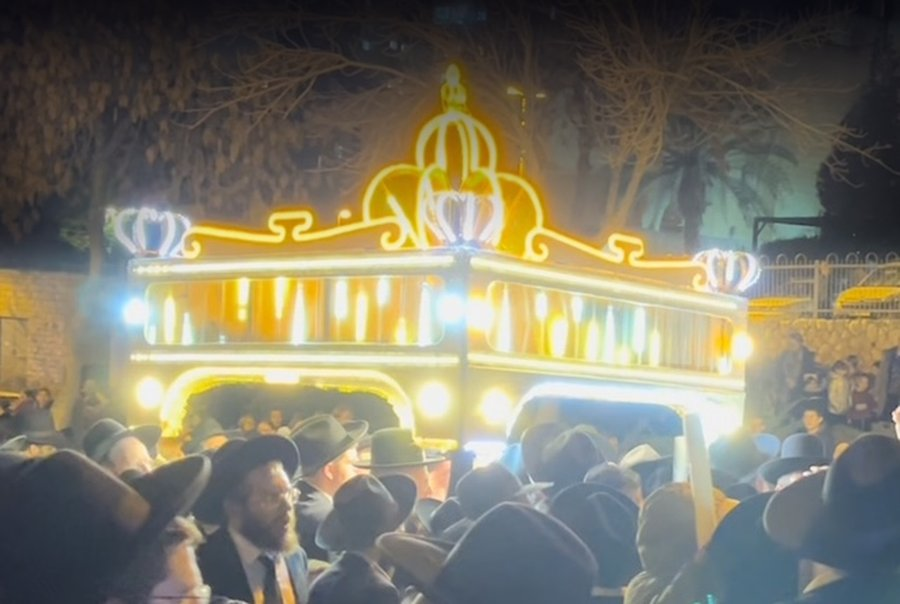
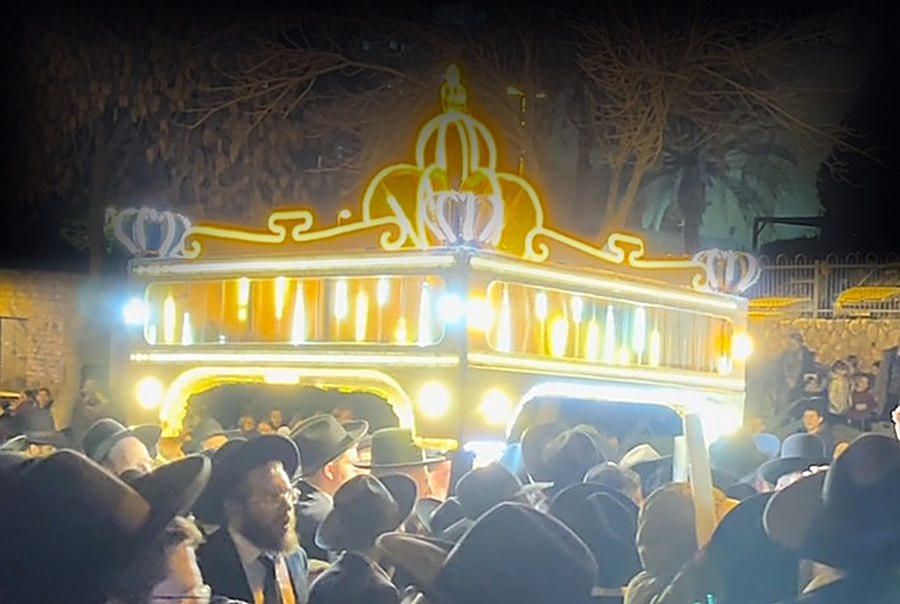
Smooth face blur, sharper chuppah photos, 3rd gallery photo, email copy
- Re-rendered the chuppah photos with a sharpening pass (to offset the
  softness from upscaling a small source photo) and a much stronger,
  near-black treatment on the tree corners so the gold crown pops.
- Replaced the hard-edged blur boxes with a feathered/soft blur so
  faces are obscured without a visible rectangle.
- Re-added showcase-crown.jpg as a third, distinct gallery photo
  (grid back to 3 columns).
- Added a dedicated "copy" button next to the contact email so it can
  be copied even where mailto: doesn't open a mail client, keeping
  the address itself selectable.

Claude-Session: https://claude.ai/code/session_01D8eu7GUbxEioHt2D6r7AZ8

diff --git a/zvulun-torah-events/style.css b/zvulun-torah-events/style.css
@@ -239,7 +239,7 @@ body.ready .hero-content > h1 { animation: heroRise .7s ease .2s both, titleGlow
 }
 
 /* Gallery */
-.gallery-grid { display: grid; grid-template-columns: repeat(2, 1fr); gap: 16px; max-width: 760px; margin: 0 auto; }
+.gallery-grid { display: grid; grid-template-columns: repeat(3, 1fr); gap: 16px; }
 .gallery-item {
   aspect-ratio: 4 / 3; border-radius: var(--radius);
   background-color: var(--navy-light); background-size: cover; background-position: center;
@@ -267,6 +267,20 @@ body.ready .hero-content > h1 { animation: heroRise .7s ease .2s both, titleGlow
 }
 .contact-line .icon { color: var(--gold); width: 22px; height: 22px; }
 .contact-line:hover { transform: translateY(-2px); border-color: rgba(212,175,55,.5); }
+
+.contact-line-email { justify-content: space-between; padding-inline-end: 10px; user-select: text; }
+.contact-line-link {
+  display: flex; align-items: center; gap: 10px; text-decoration: none; color: var(--white);
+  user-select: text;
+}
+.copy-btn {
+  flex-shrink: 0; background: rgba(212,175,55,.15); border: 1px solid rgba(212,175,55,.4);
+  color: var(--gold-light); font-size: 13px; font-weight: 700; font-family: inherit;
+  padding: 7px 14px; border-radius: 8px; cursor: pointer; white-space: nowrap;
+  transition: background .15s ease, border-color .15s ease;
+}
+.copy-btn:hover { background: rgba(212,175,55,.28); border-color: rgba(212,175,55,.6); }
+.copy-btn.copied { background: rgba(37,211,102,.2); border-color: rgba(37,211,102,.5); color: #6fe3a0; }
 
 /* Footer */
 .site-footer { background: var(--navy-deep); border-top: 1px solid rgba(255,255,255,.08); padding: 28px 0 90px; }

diff --git a/zvulun-torah-events/index.html b/zvulun-torah-events/index.html
@@ -166,6 +166,7 @@
       <div class="gallery-grid">
         <div class="gallery-item gallery-item-contain reveal" style="background-image:url('images/hero-bg.jpg')"></div>
         <div class="gallery-item reveal" style="background-image:url('images/showcase-crowd.jpg')"></div>
+        <div class="gallery-item reveal" style="background-image:url('images/showcase-crown.jpg')"></div>
       </div>
     </div>
   </section>
@@ -181,9 +182,12 @@
         <a class="contact-line" href="https://wa.me/972506927171?text=שלום%2C%20אשמח%20לפרטים%20על%20הכנסת%20ספר%20תורה" target="_blank" rel="noopener">
           <svg class="icon" aria-hidden="true"><use href="#icon-chat"/></svg> וואטסאפ
         </a>
-        <a class="contact-line" href="mailto:zvulun8@netvision.net.il">
-          <svg class="icon" aria-hidden="true"><use href="#icon-mail"/></svg> zvulun8@netvision.net.il
-        </a>
+        <div class="contact-line contact-line-email">
+          <a class="contact-line-link" href="mailto:zvulun8@netvision.net.il">
+            <svg class="icon" aria-hidden="true"><use href="#icon-mail"/></svg> zvulun8@netvision.net.il
+          </a>
+          <button type="button" class="copy-btn" data-copy-text="zvulun8@netvision.net.il" aria-label="העתקת כתובת המייל">העתק</button>
+        </div>
       </div>
     </div>
   </section>

diff --git a/zvulun-torah-events/script.js b/zvulun-torah-events/script.js
@@ -38,3 +38,32 @@ if (navToggle && mainNav) {
     });
   });
 }
+
+document.querySelectorAll('.copy-btn').forEach((btn) => {
+  const text = btn.dataset.copyText;
+  const original = btn.textContent;
+  btn.addEventListener('click', async () => {
+    try {
+      if (navigator.clipboard) {
+        await navigator.clipboard.writeText(text);
+      } else {
+        const temp = document.createElement('textarea');
+        temp.value = text;
+        temp.style.position = 'fixed';
+        temp.style.opacity = '0';
+        document.body.appendChild(temp);
+        temp.select();
+        document.execCommand('copy');
+        document.body.removeChild(temp);
+      }
+      btn.textContent = 'הועתק!';
+      btn.classList.add('copied');
+      setTimeout(() => {
+        btn.textContent = original;
+        btn.classList.remove('copied');
+      }, 1800);
+    } catch (err) {
+      btn.textContent = text;
+    }
+  });
+});
